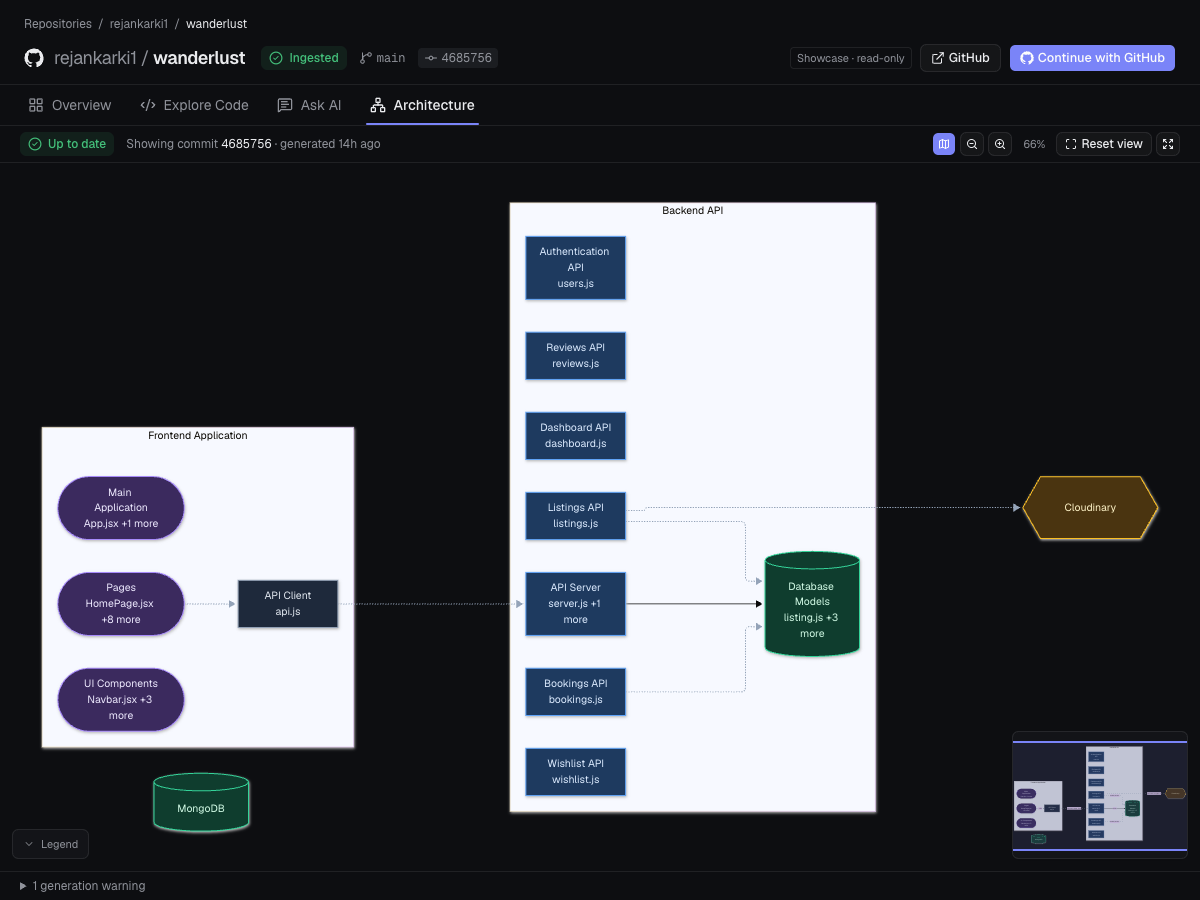
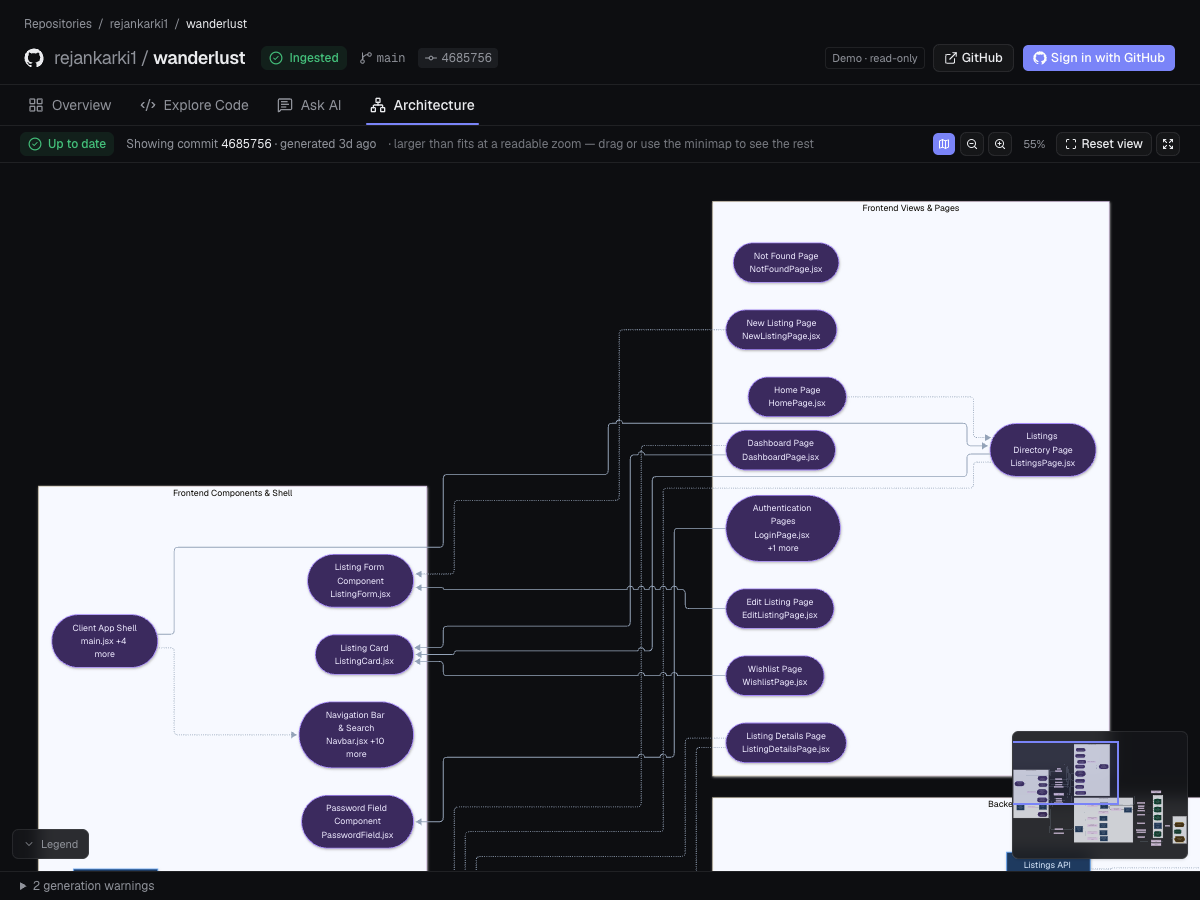
fix(web): refresh the landing architecture preview with the current diagram
The preview image was captured before the diagram was regenerated and showed old
labels ("Showcase · read-only", "Continue with GitHub"). Replace it with a capture of
the live Wanderlust architecture view and update its alt text to describe it. Layout,
routing and the card copy are unchanged.

diff --git a/apps/web/app/page.tsx b/apps/web/app/page.tsx
@@ -18,7 +18,7 @@ const STEPS = [
 const FEATURES = [
   {
     image: '/landing/architecture.png',
-    alt: 'The Architecture Explorer showing the Wanderlust repository as a diagram: a frontend application, a backend API with its routes, a database and Cloudinary, joined by arrows.',
+    alt: 'The Architecture Explorer showing the Wanderlust repository as a diagram: boxes for the frontend pages and components and the backend controllers and API, joined by solid arrows for verified imports and dashed arrows for inferred relationships, with a minimap in the corner.',
     title: 'See how the pieces connect',
     text: 'An AI-identified diagram of a repository’s components. Pan and zoom, or select a component to see the real files behind it.',
     repo: 'rejankarki1/wanderlust',
